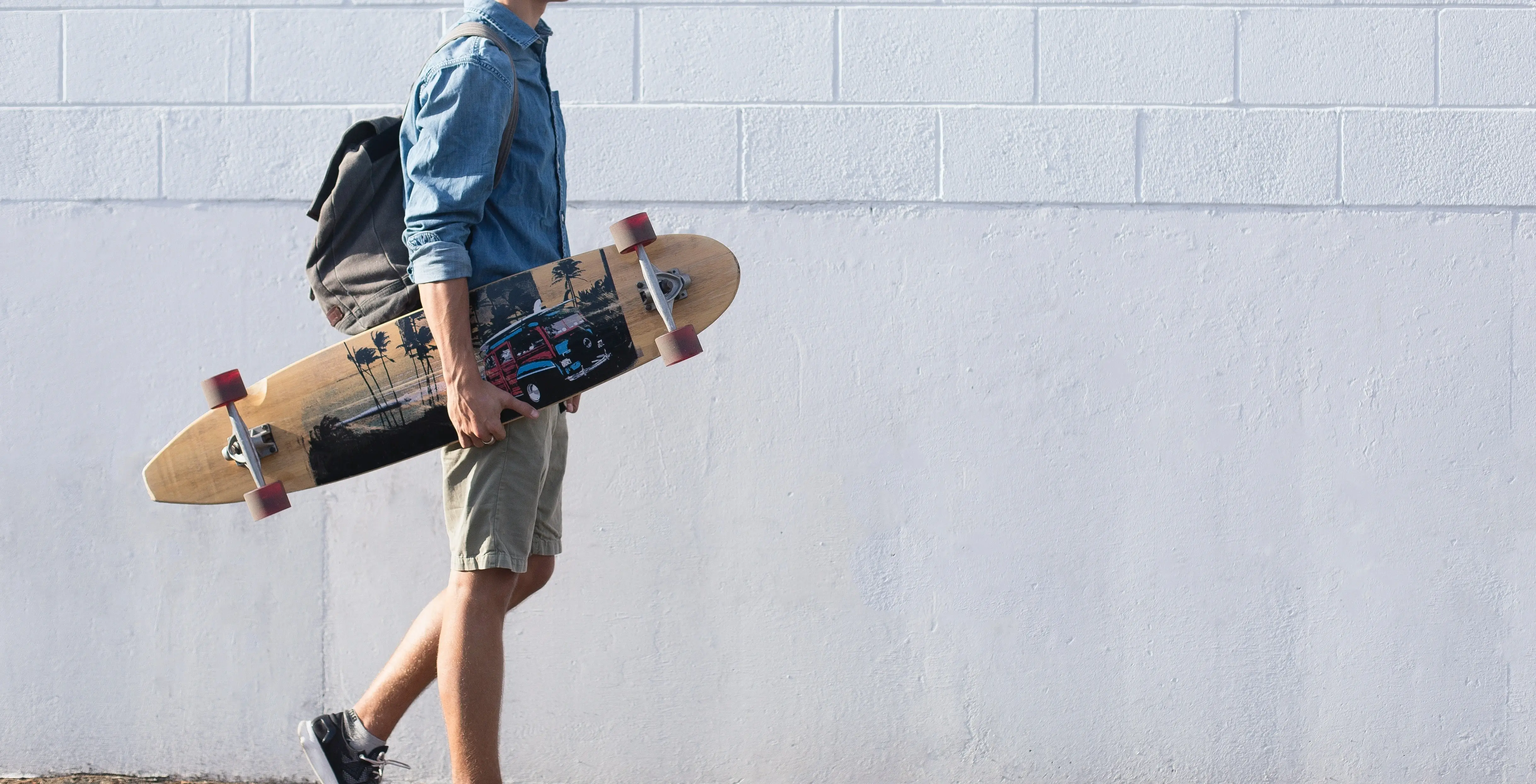
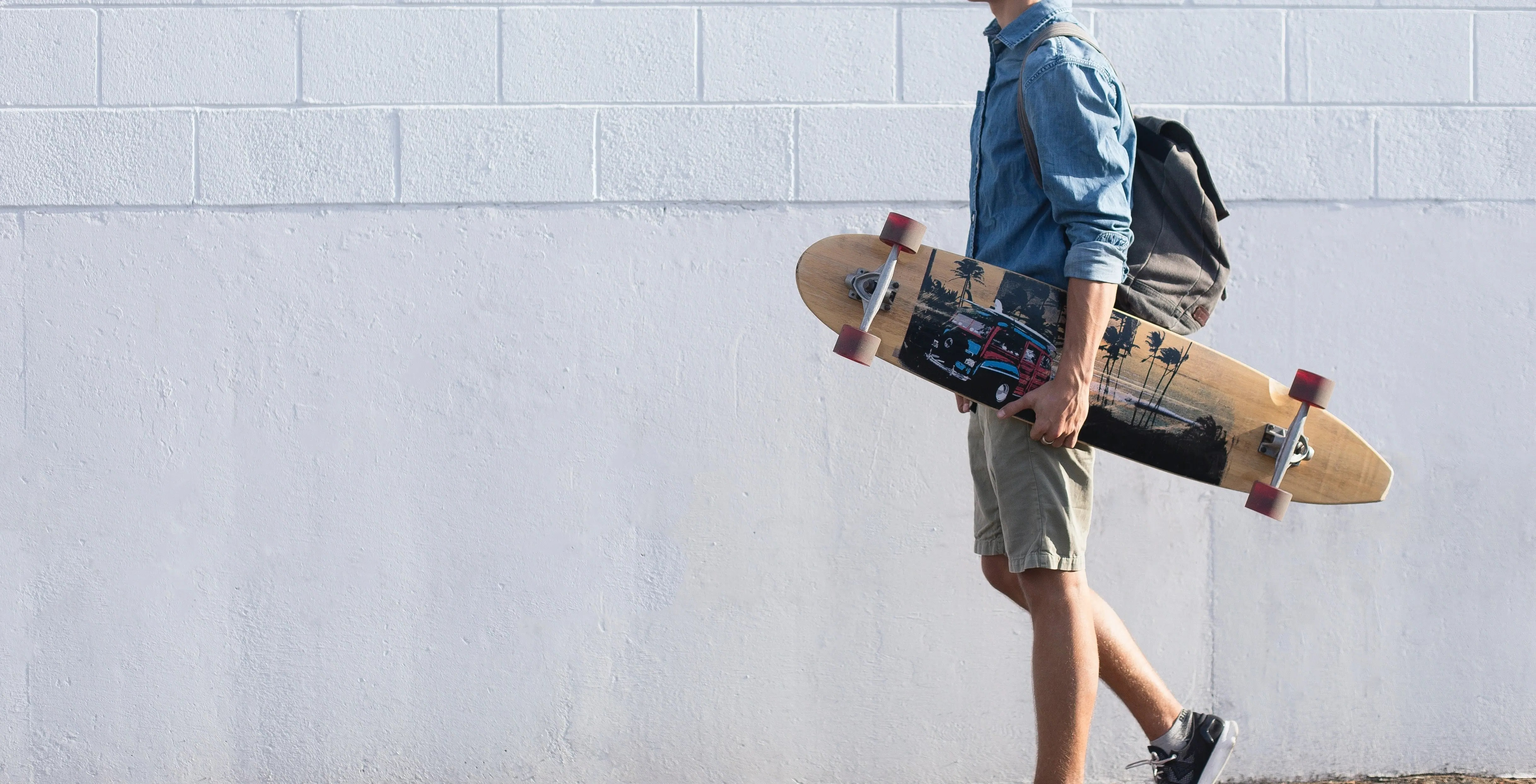
about this project styling

diff --git a/src/pages/Project.jsx b/src/pages/Project.jsx
@@ -4,6 +4,7 @@ import NavBar from "../components/Navbar";
 import Footer from "../components/Footer";
 import "./Project.css";
 import aboutImg from "../img/about-this-project.webp";
+import aboutTitle from "../img/about-header.svg";
 import Technologies from "../components/Technologies";
 
 function Project() {
@@ -23,20 +24,27 @@ function Project() {
     <div className="project-container">
       <NavBar />
       <div className="d-flex flex-column align-items-center">
-        <div ref={headerRef} className="row header-container-project w-100 ">
+        <div ref={headerRef} className="row header-container-project w-100">
           <img src={aboutImg} alt="Header img" className=" header-image position-absolute" />
           <div className="fade-overlay-2 position-absolute" />
-          <div className="header  d-flex flex-column justify-content-center col-md-9 col-lg-9  text-black ms-4">
-            <div style={{ marginTop: "-250px" }}>
-              <h1>About this project</h1>
+          <div className="header d-flex flex-column justify-content-center col-md-8 col-lg-8  text-black ms-0 ms-lg-4">
+            <div className="header-title-container">
+              <img src={aboutTitle} alt="" className="header-title"></img>
             </div>
-            <div className="mt-5 mt-sm-0">
-              <p className="fs-5  ">
+            <div>
+              <p
+                class="fs-4 outlined-text"
+                data-text="Welcome to the Hey! Boards' e-commerce website. This project was developed as part
+                of the final integrative exam of the Hack Academy Web Development Bootcamp. It is
+                the result of hard work, meticulous planning, effective teamwork, and many, many
+                hours of coding. We hope that you enjoy the visuals and functionalities of our
+                website."
+              >
                 Welcome to the Hey! Boards' e-commerce website. This project was developed as part
                 of the final integrative exam of the Hack Academy Web Development Bootcamp. It is
                 the result of hard work, meticulous planning, effective teamwork, and many, many
-                hours of coding. We sincerely hope that you enjoy the visuals and functionalities of
-                our website.
+                hours of coding. We hope that you enjoy the visuals and functionalities of our
+                website.
               </p>
             </div>
           </div>
@@ -109,7 +117,7 @@ function Project() {
             <Technologies />
           </div>
           <div className="row squere px-3   mb-2">
-            <div className="col fs-5 text-center">
+            <div className="col fs-5">
               <p>
                 This intensive three-month course has equipped us with over 700 practical hours,
                 dedicated to learning and honing the skills required to build robust and dynamic web

diff --git a/src/pages/Project.css b/src/pages/Project.css
@@ -10,16 +10,85 @@
   color: white;
   width: 100vw;
 }
+
 .header-container-project img {
-  transform: scaleX(-1);
   background-size: cover;
   position: absolute;
   z-index: -1;
   padding: 0;
 }
 
-.header-image {
-  opacity: 0.6;
+.icon-square {
+}
+
+.header-title-container {
+  margin-top: -250px;
+  margin-bottom: 80px;
+}
+
+.header-title {
+  height: 60px;
+  width: auto;
+  animation: glitch-animation 3s infinite;
+}
+
+.outlined-text {
+  position: relative;
+  display: inline-block;
+  color: black;
+  font-family: "Roboto", sans-serif;
+  font-weight: bold;
+  overflow: hidden;
+}
+
+.outlined-text::before {
+  content: attr(data-text);
+  position: absolute;
+  top: 0;
+  left: 0;
+  width: 100%;
+  height: 100%;
+  color: white;
+  text-shadow: -1px -1px 0 #86b7ff, 1px -1px 0 #ffffff, -1px 1px 0 #6af5af, 1px 1px 0 #f5ab0b;
+  z-index: -1;
+}
+
+@keyframes glitch-animation {
+  0% {
+    transform: translate(0, 0);
+  }
+  20% {
+    transform: translate(-1px, -1px);
+  }
+  40% {
+    transform: translate(1px, 1px);
+  }
+  60% {
+    transform: translate(-1px, 1px);
+  }
+  80% {
+    transform: translate(1px, 1px);
+  }
+  100% {
+    transform: translate(0, 0);
+  }
+}
+
+@media (max-width: 768px) {
+  .header-title-container {
+    margin-top: -270px;
+    margin-bottom: 50px;
+  }
+
+  .header-title {
+    height: 40px;
+  }
+}
+
+@media (max-width: 768px) {
+  .line-container {
+    display: block;
+  }
 }
 
 .project-container h1 {
